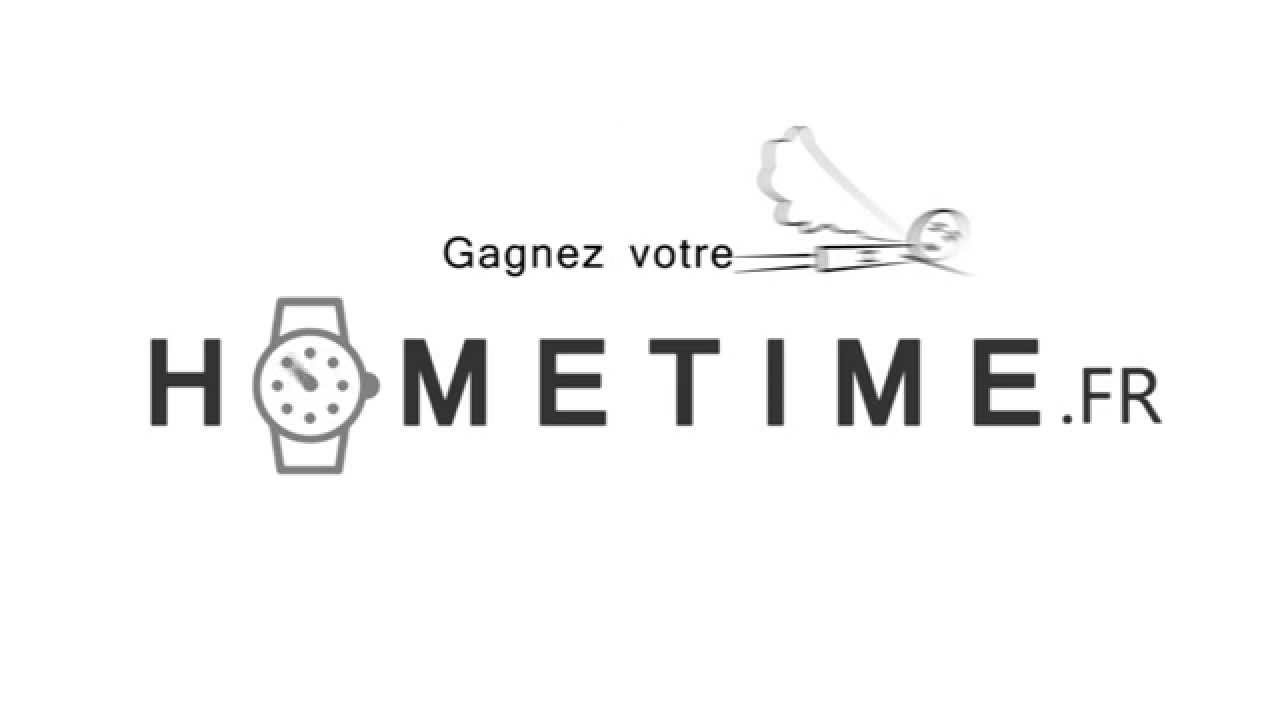
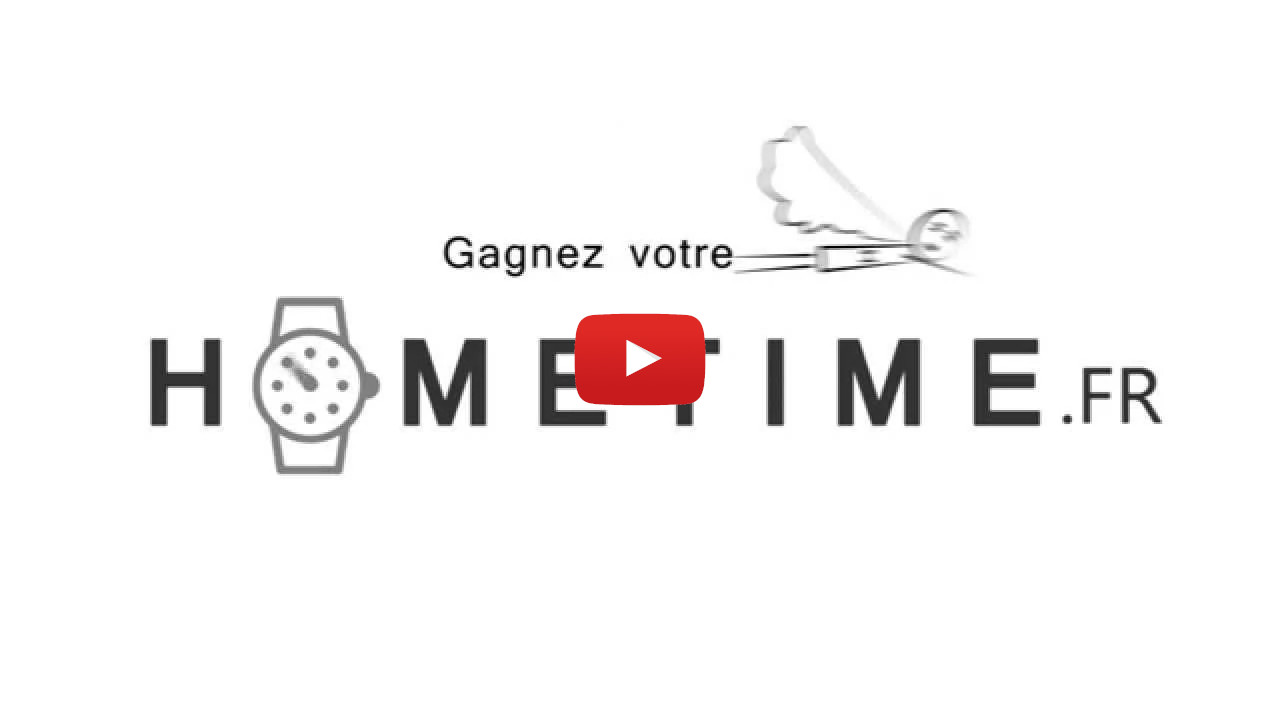
Optimizing youtube iframe by js

Changed region(s): [[0.4375, 0.4278, 0.5625, 0.5806]]

diff --git a/app/views/index.scala.html b/app/views/index.scala.html
@@ -194,7 +194,7 @@
 						</div>
 
 						<div class="center bottommargin">
-			  				<div class="youtube-video-place embed-responsive embed-responsive-4by3 " data-yt-url="//www.youtube.com/embed/6XruLNvzZCM?rel=0&amp;controls=1&amp;showinfo=0&amp;autoplay=0&amp;modestbranding=1">
+			  				<div class="youtube-video-place embed-responsive" data-yt-url="//www.youtube.com/embed/6XruLNvzZCM?rel=0&amp;controls=1&amp;showinfo=0&amp;autoplay=0&amp;modestbranding=1">
 			  					<picture>
 			  						<source type="image/webp" data-srcset="@remote_assets("images/home/videoyoutube.webp")">
 			  						<img src="@remote_assets("images/home/videoyoutube.jpg")" async class="play-youtube-video">

diff --git a/public/js/site-wise-custom.js b/public/js/site-wise-custom.js
@@ -15,6 +15,7 @@ if(video_wrapper.length){
 $('.play-youtube-video').on('click', function(){
 /* Dynamically inject the iframe on demand of the user.
  Pull the youtube url from the data attribute on the wrapper element. */
-video_wrapper.html('<iframe allowfullscreen frameborder="0" class="embed-responsive-item" src="' + video_wrapper.data('yt-url') + '"></iframe>');
+video_wrapper.addClass("embed-responsive-16by9");
+video_wrapper.html('<iframe style="border:none;"  allowfullscreen class="embed-responsive-item" src="' + video_wrapper.data('yt-url') + '"></iframe>');
 });
 }

diff --git a/app/assets/stylesheets/less/responsive-hacks-home-only.less b/app/assets/stylesheets/less/responsive-hacks-home-only.less
@@ -146,7 +146,7 @@
 			}
 		}
 		
-		.col-padding {
+		.col-padding.col-lg-3 {
     		padding: 20px !important;
 		}
 	}
